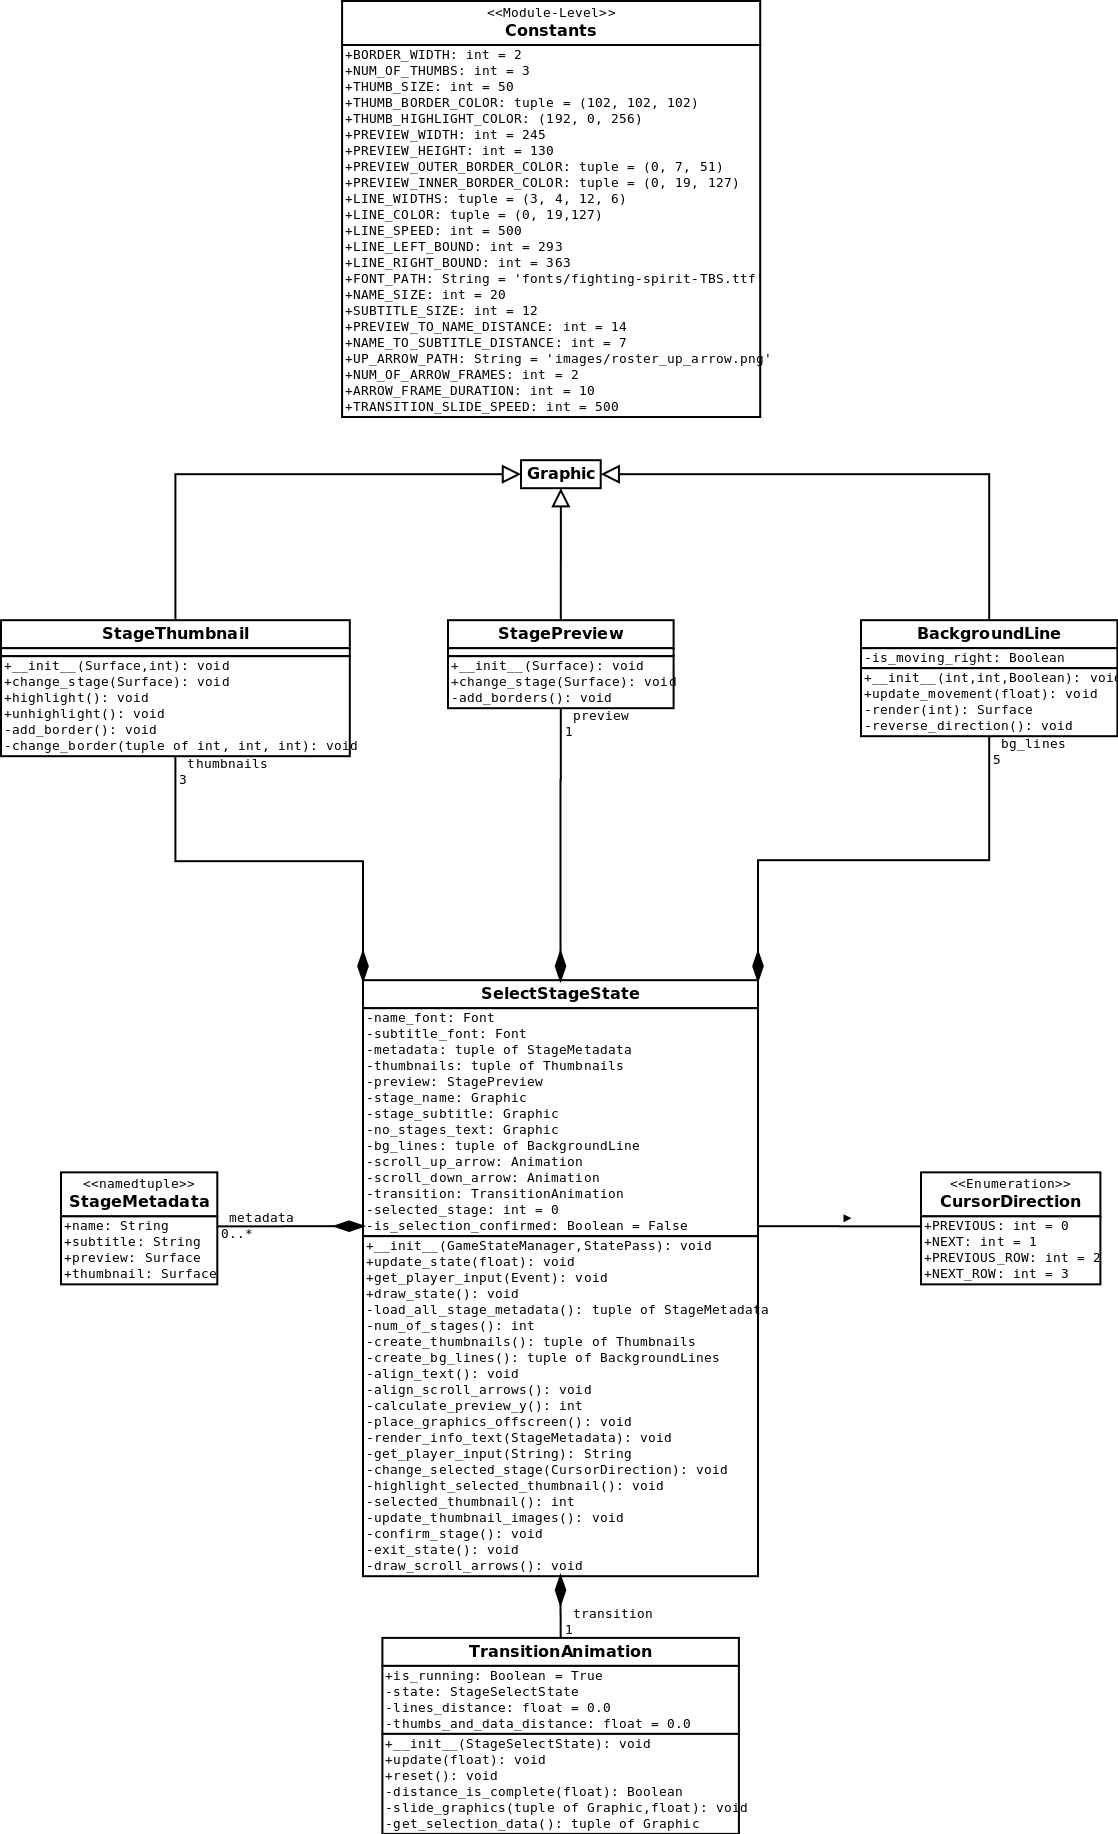
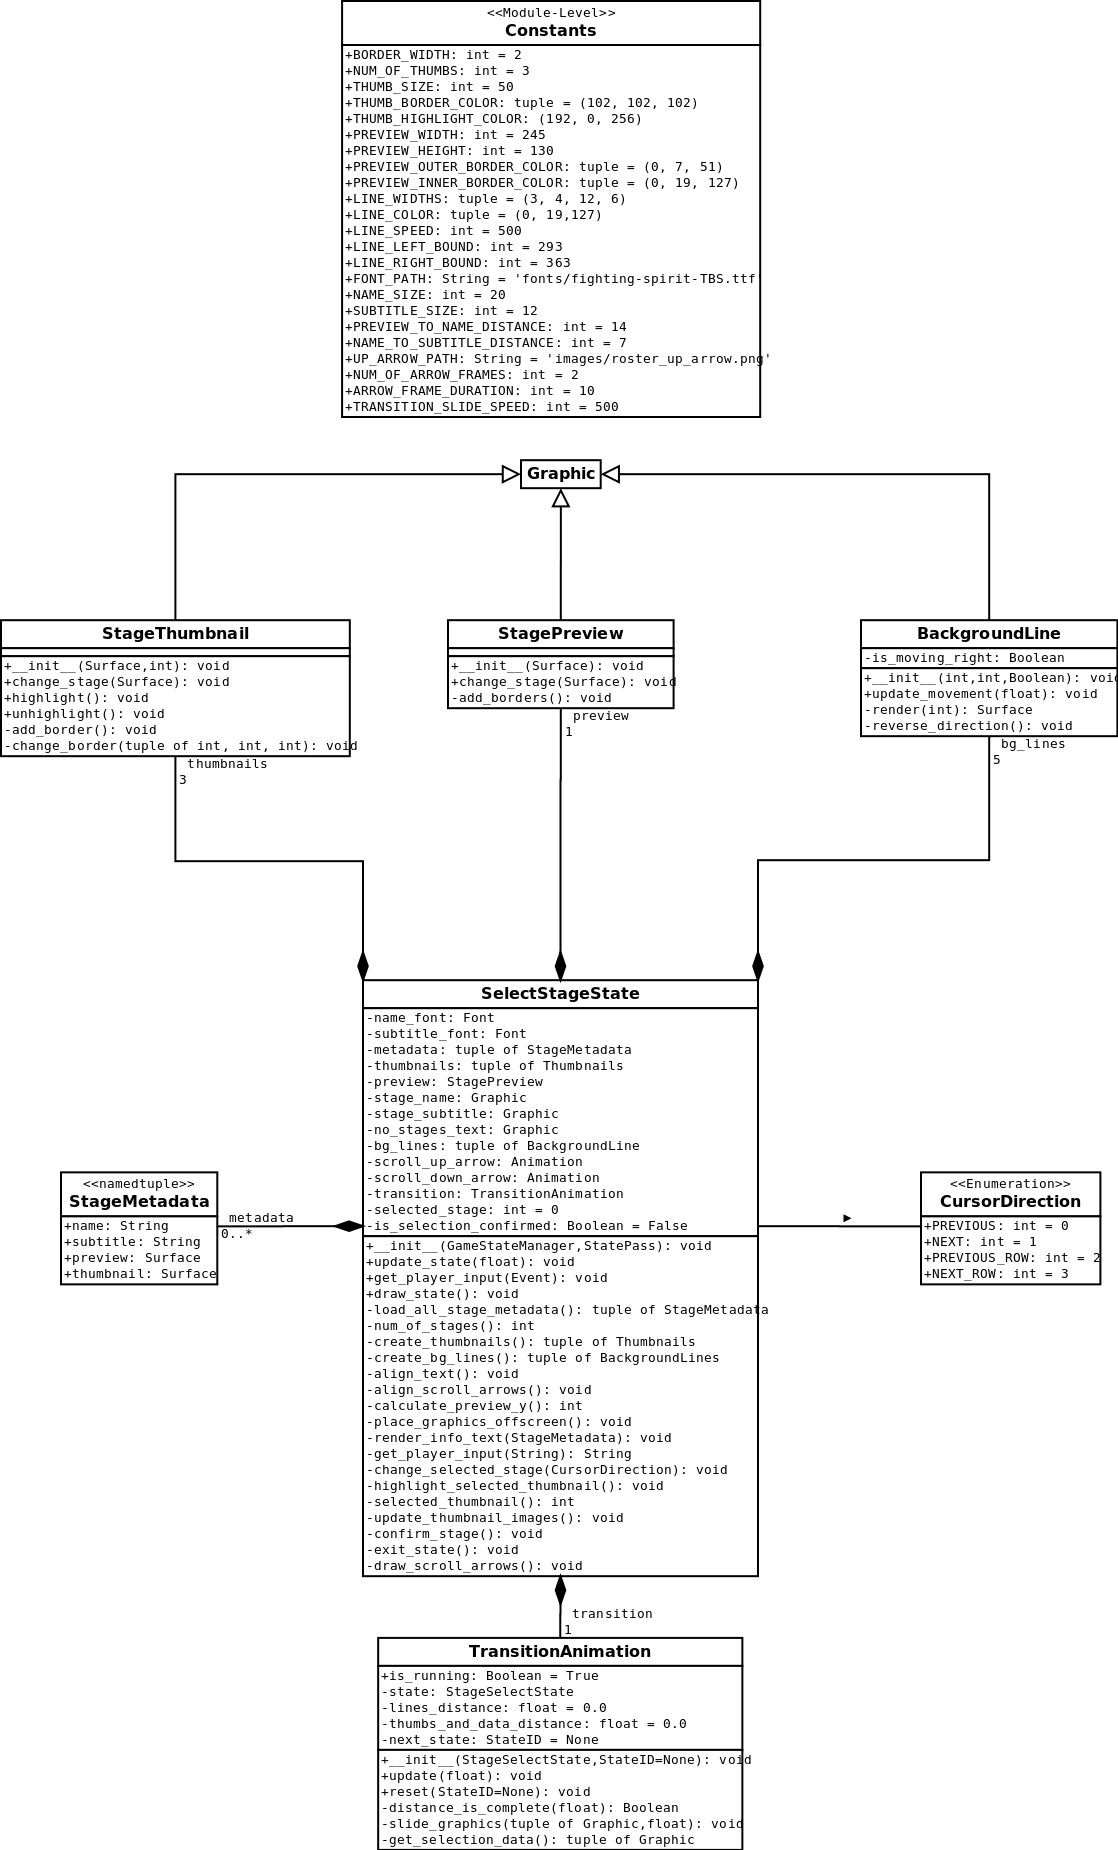
Allow TransitionAnimation to switch Game States
Without this, there would be no way to leave the StageSelectState.

diff --git a/lib/game_states/stage_select_state.py b/lib/game_states/stage_select_state.py
@@ -557,18 +557,28 @@ class TransitionAnimation(object):
         preview_and_text_distance (float): The vertical distance
             travelled, in pixels, by the StagePreview and metadata text
             since the current Animation began.
+        next_state (StateIDs): An enum value for the State to load once
+            the animation is finished. See the state_ids module for
+            possible values. Setting this attribute to None will keep
+            the StageSelectState open after running the animation.
     """
-    def __init__(self, state):
+    def __init__(self, state, next_state=None):
         """Declare and initialize instance variables.
 
         Args:
             state (StageSelectState): The Stage Select State that this
                 object will animate.
+            next_state (StateIDs): Optional. An enum value for the State
+                to load once the animation is finished. See the
+                state_ids module for possible values. Setting this to
+                the default value of None will keep the StageSelectState
+                open after running the animation.
         """
         self.state = state
         self.is_running = True
         self.lines_distance = 0.0
         self.thumbs_and_data_distance = 0.0
+        self.next_state = next_state
 
     def update(self, time):
         """Update the transition animation.
@@ -591,6 +601,8 @@ class TransitionAnimation(object):
             self.thumbs_and_data_distance += distance
         else:
             self.is_running = False
+            if self.next_state is not None:
+                self.state.change_state(self.next_state)
 
     def distance_is_complete(self, distance_counter):
         """Return a Boolean indicating whether a certain group of
@@ -639,11 +651,20 @@ class TransitionAnimation(object):
         else:
             return (self.state.preview, self.state.no_stages_text)
 
-    def reset(self):
-        """Prepare the animation and play it again."""
+    def reset(self, next_state=None):
+        """Prepare the animation and play it again.
+
+        Args:
+            next_state (StateIDs): Optional. An enum value for the State
+                to load once the animation is finished. See the
+                state_ids module for possible values. Setting this to
+                the default value of None will keep the StageSelectState
+                open after running the animation.
+        """
         self.lines_distance = 0.0
         self.thumbs_and_data_distance = 0.0
         self.is_running = True
+        self.next_state = next_state
 
 
 class StageThumbnail(Graphic):
